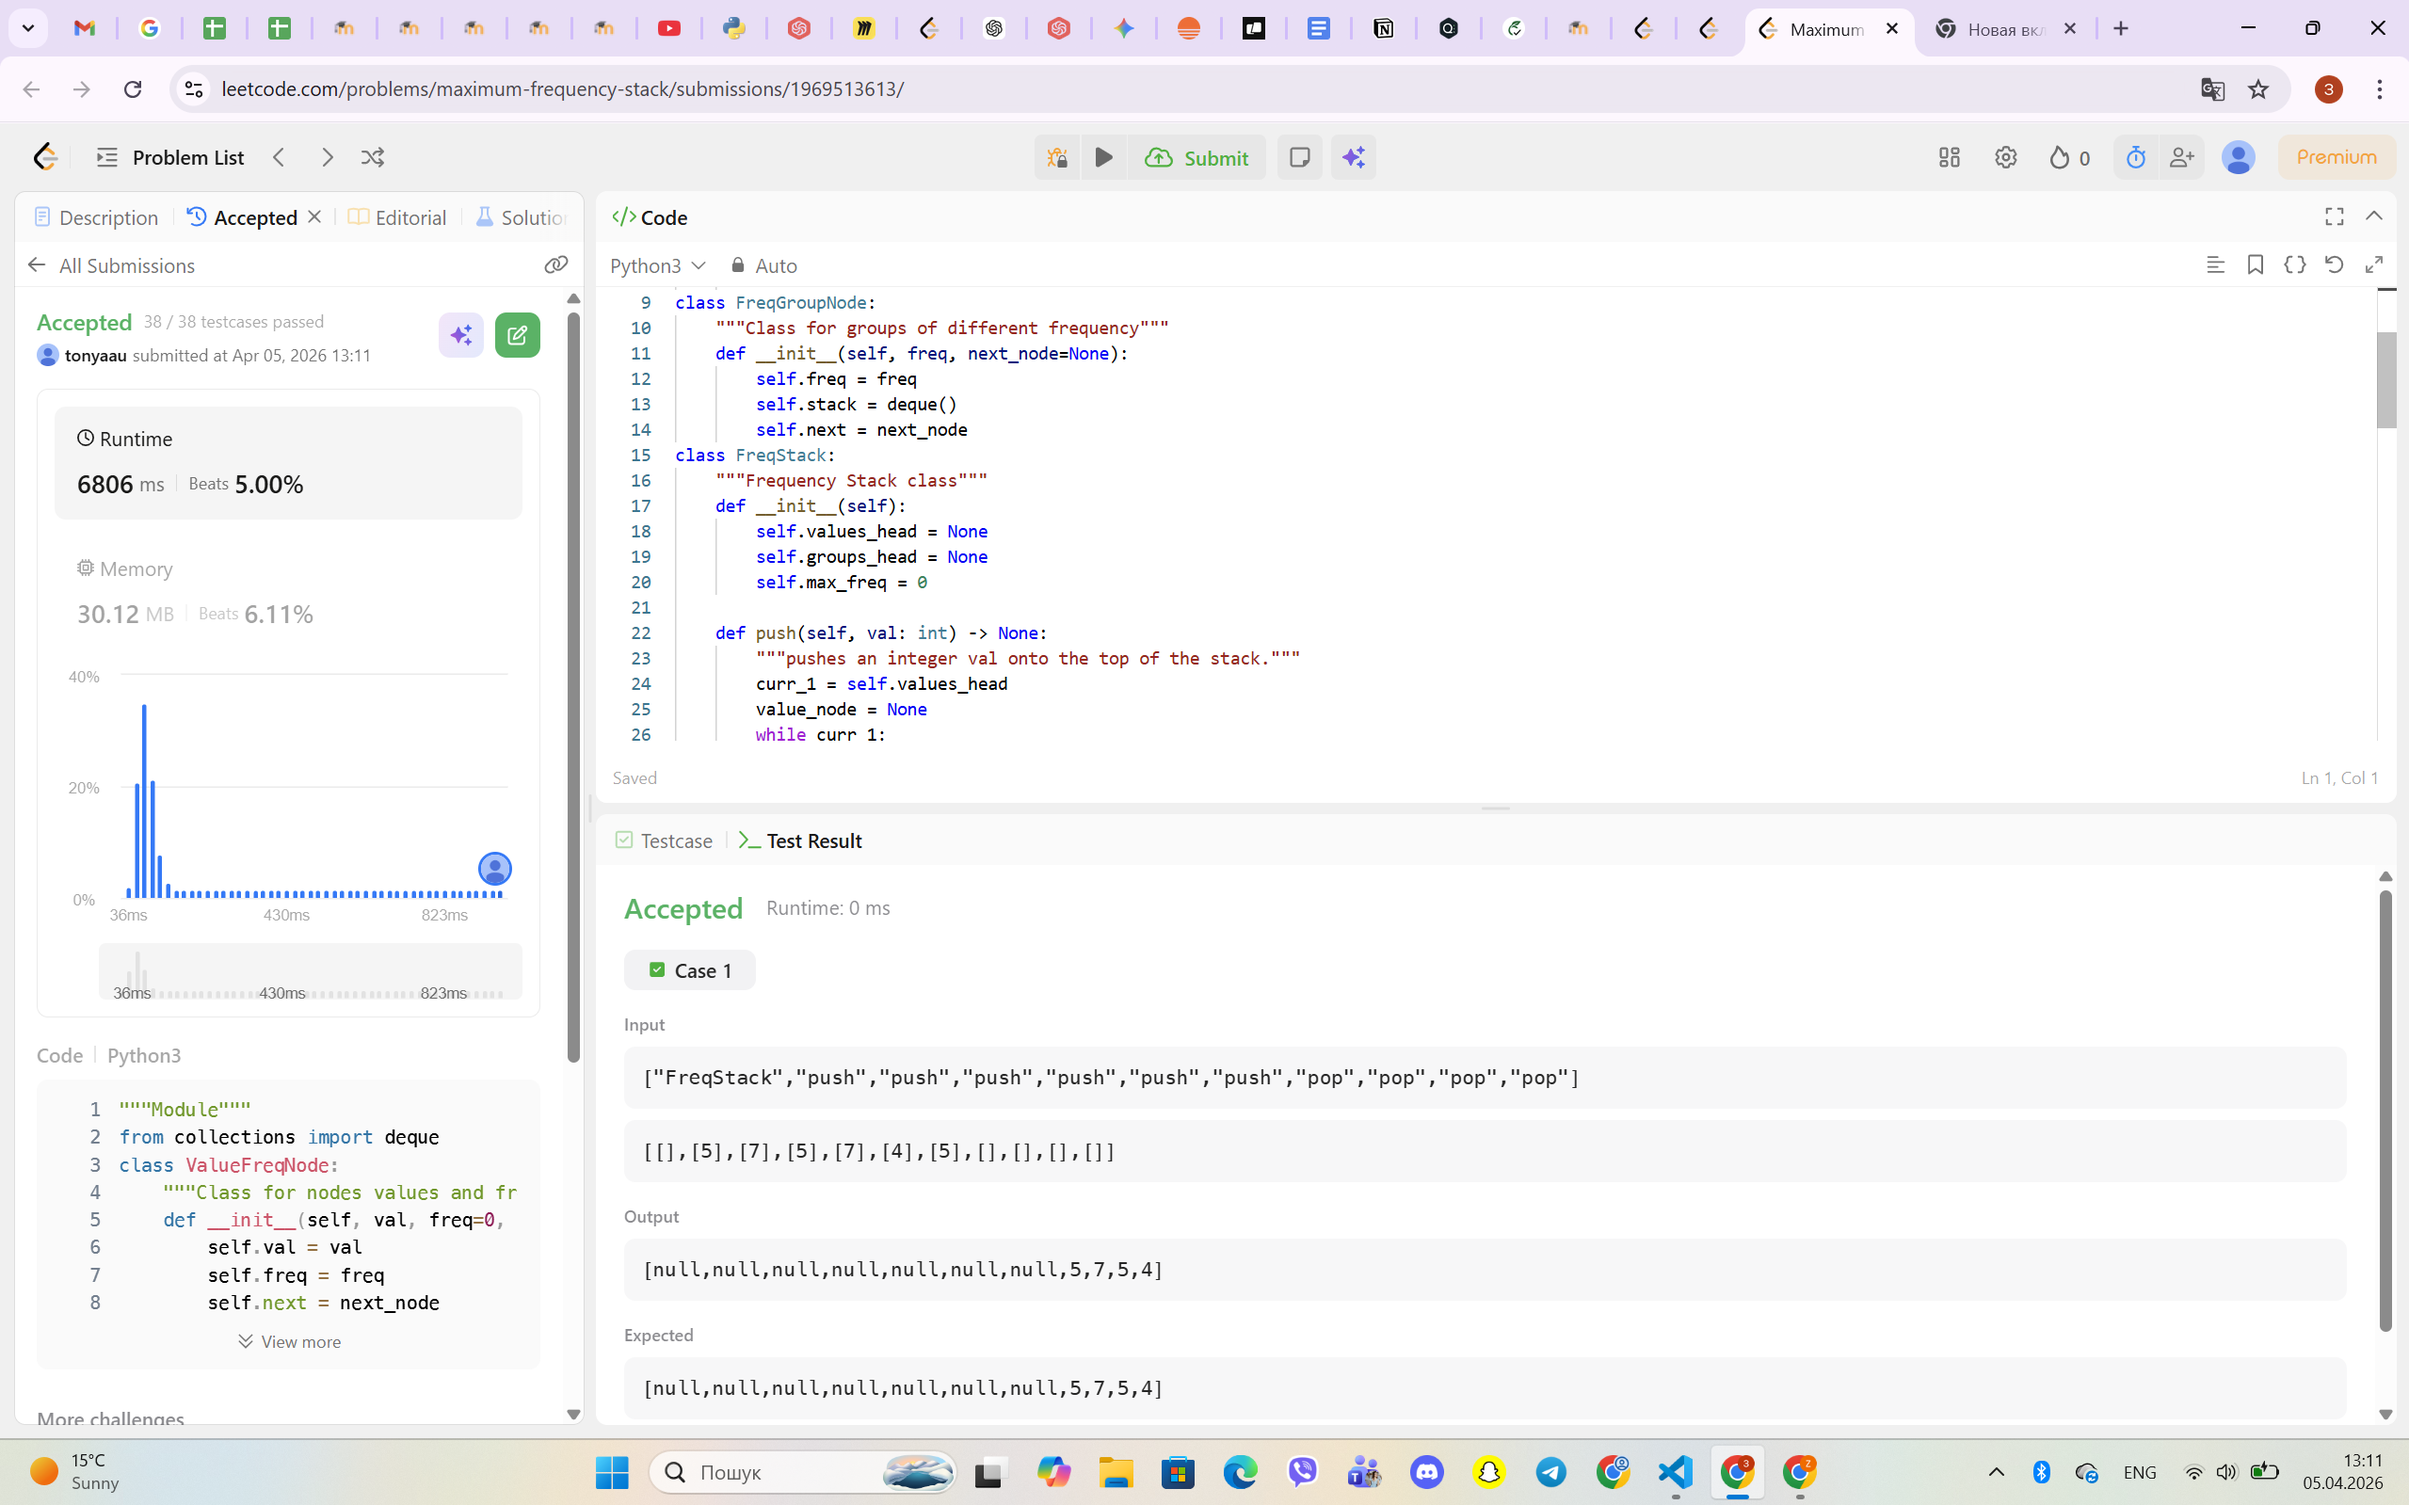
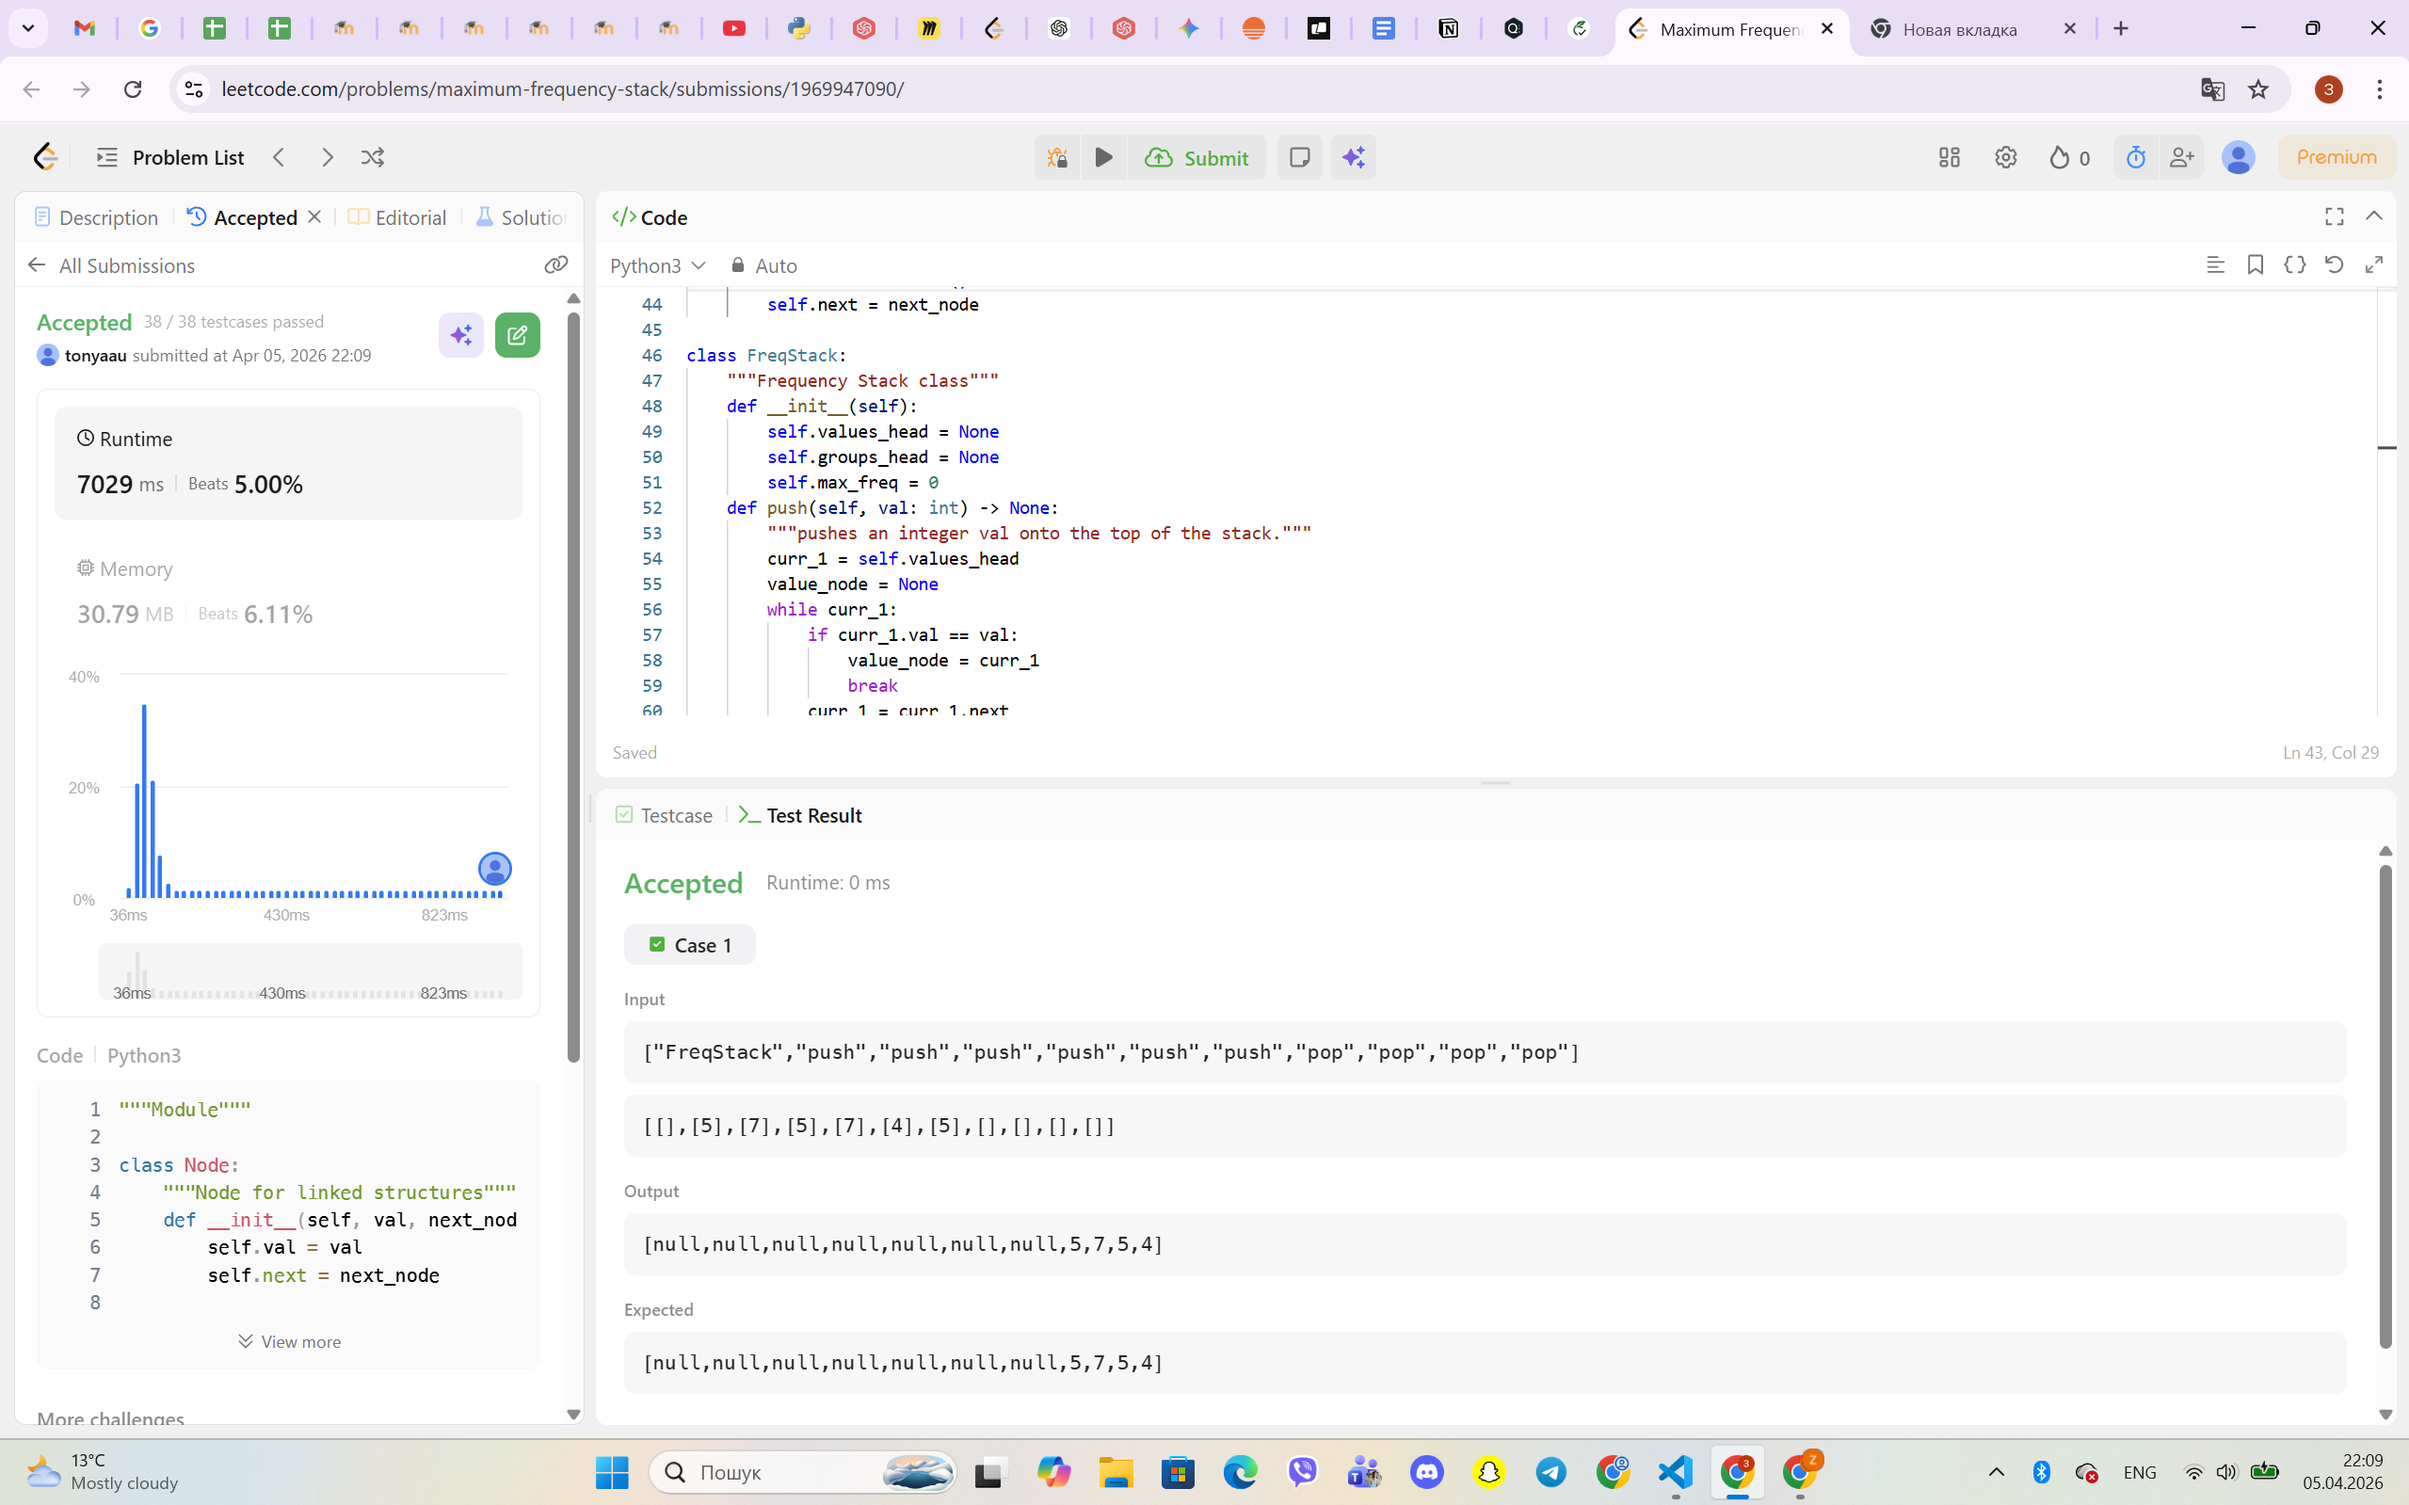
Added maximum frequency without deque

diff --git a/maximum_frequency_stack/solution.py b/maximum_frequency_stack/solution.py
@@ -1,24 +1,53 @@
 """Module"""
-from collections import deque
+class Node:
+    """Node for linked structures"""
+    def __init__(self, val, next_node=None):
+        self.val = val
+        self.next = next_node
+
+class Stack:
+    """Stack class"""
+    def __init__(self):
+        self.head = None
+    def push(self, item):
+        """push docstring"""
+        self.head = Node(item, next_node=self.head)
+    def pop(self):
+        """pop docstring"""
+        if self.head is None:
+            raise IndexError
+        dele = self.head.val
+        self.head = self.head.next
+        return dele
+    def peek(self):
+        """peek docstring"""
+        if self.head is None:
+            raise IndexError
+        return self.head.val
+    def is_empty(self):
+        """is_empty docstring"""
+        return self.head is None
+
 class ValueFreqNode:
     """Class for nodes values and frequencies"""
     def __init__(self, val, freq=0, next_node=None):
         self.val = val
         self.freq = freq
         self.next = next_node
+
 class FreqGroupNode:
     """Class for groups of different frequency"""
     def __init__(self, freq, next_node=None):
         self.freq = freq
-        self.stack = deque()
+        self.stack = Stack()
         self.next = next_node
+
 class FreqStack:
     """Frequency Stack class"""
     def __init__(self):
         self.values_head = None
         self.groups_head = None
         self.max_freq = 0
-
     def push(self, val: int) -> None:
         """pushes an integer val onto the top of the stack."""
         curr_1 = self.values_head
@@ -33,7 +62,6 @@ class FreqStack:
             self.values_head = value_node
         value_node.freq += 1
         new_freq = value_node.freq
-
         curr_2 = self.groups_head
         group_node = None
         while curr_2:
@@ -44,7 +72,7 @@ class FreqStack:
         if group_node is None:
             group_node = FreqGroupNode(new_freq, self.groups_head)
             self.groups_head = group_node
-        group_node.stack.append(val)
+        group_node.stack.push(val)
         if new_freq > self.max_freq:
             self.max_freq = new_freq
 
@@ -66,13 +94,17 @@ class FreqStack:
                 current.freq -= 1
                 break
             current = current.next
-        if not group.stack:
+        if group.stack.is_empty():
             if last is None:
                 self.groups_head = group.next
             else:
                 last.next = group.next
             self.max_freq -= 1
         return first
+# Your FreqStack object will be instantiated and called as such:
+# obj = FreqStack()
+# obj.push(val)
+# param_2 = obj.pop()
 # Your FreqStack object will be instantiated and called as such:
 # obj = FreqStack()
 # obj.push(val)
